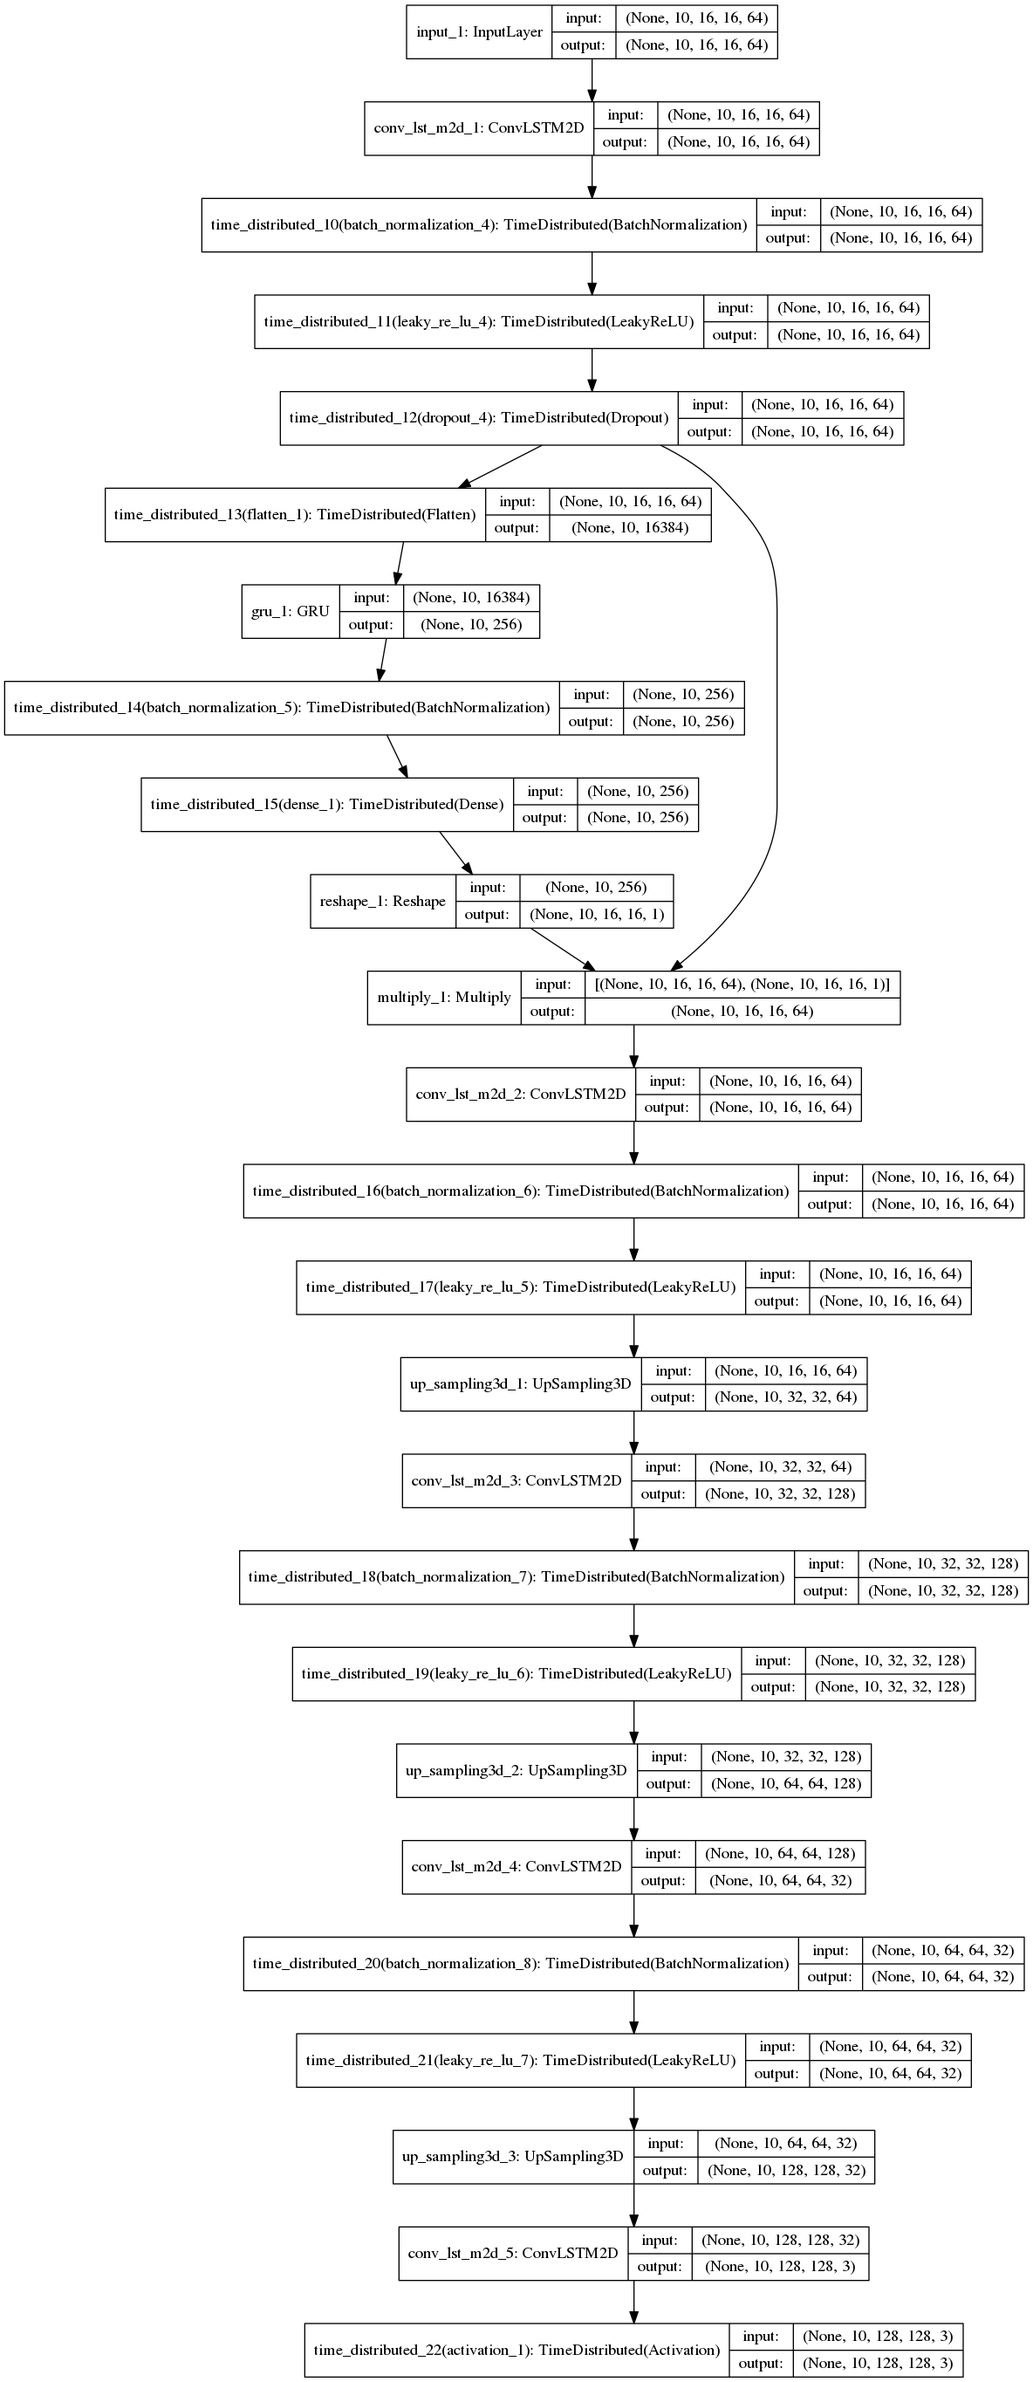
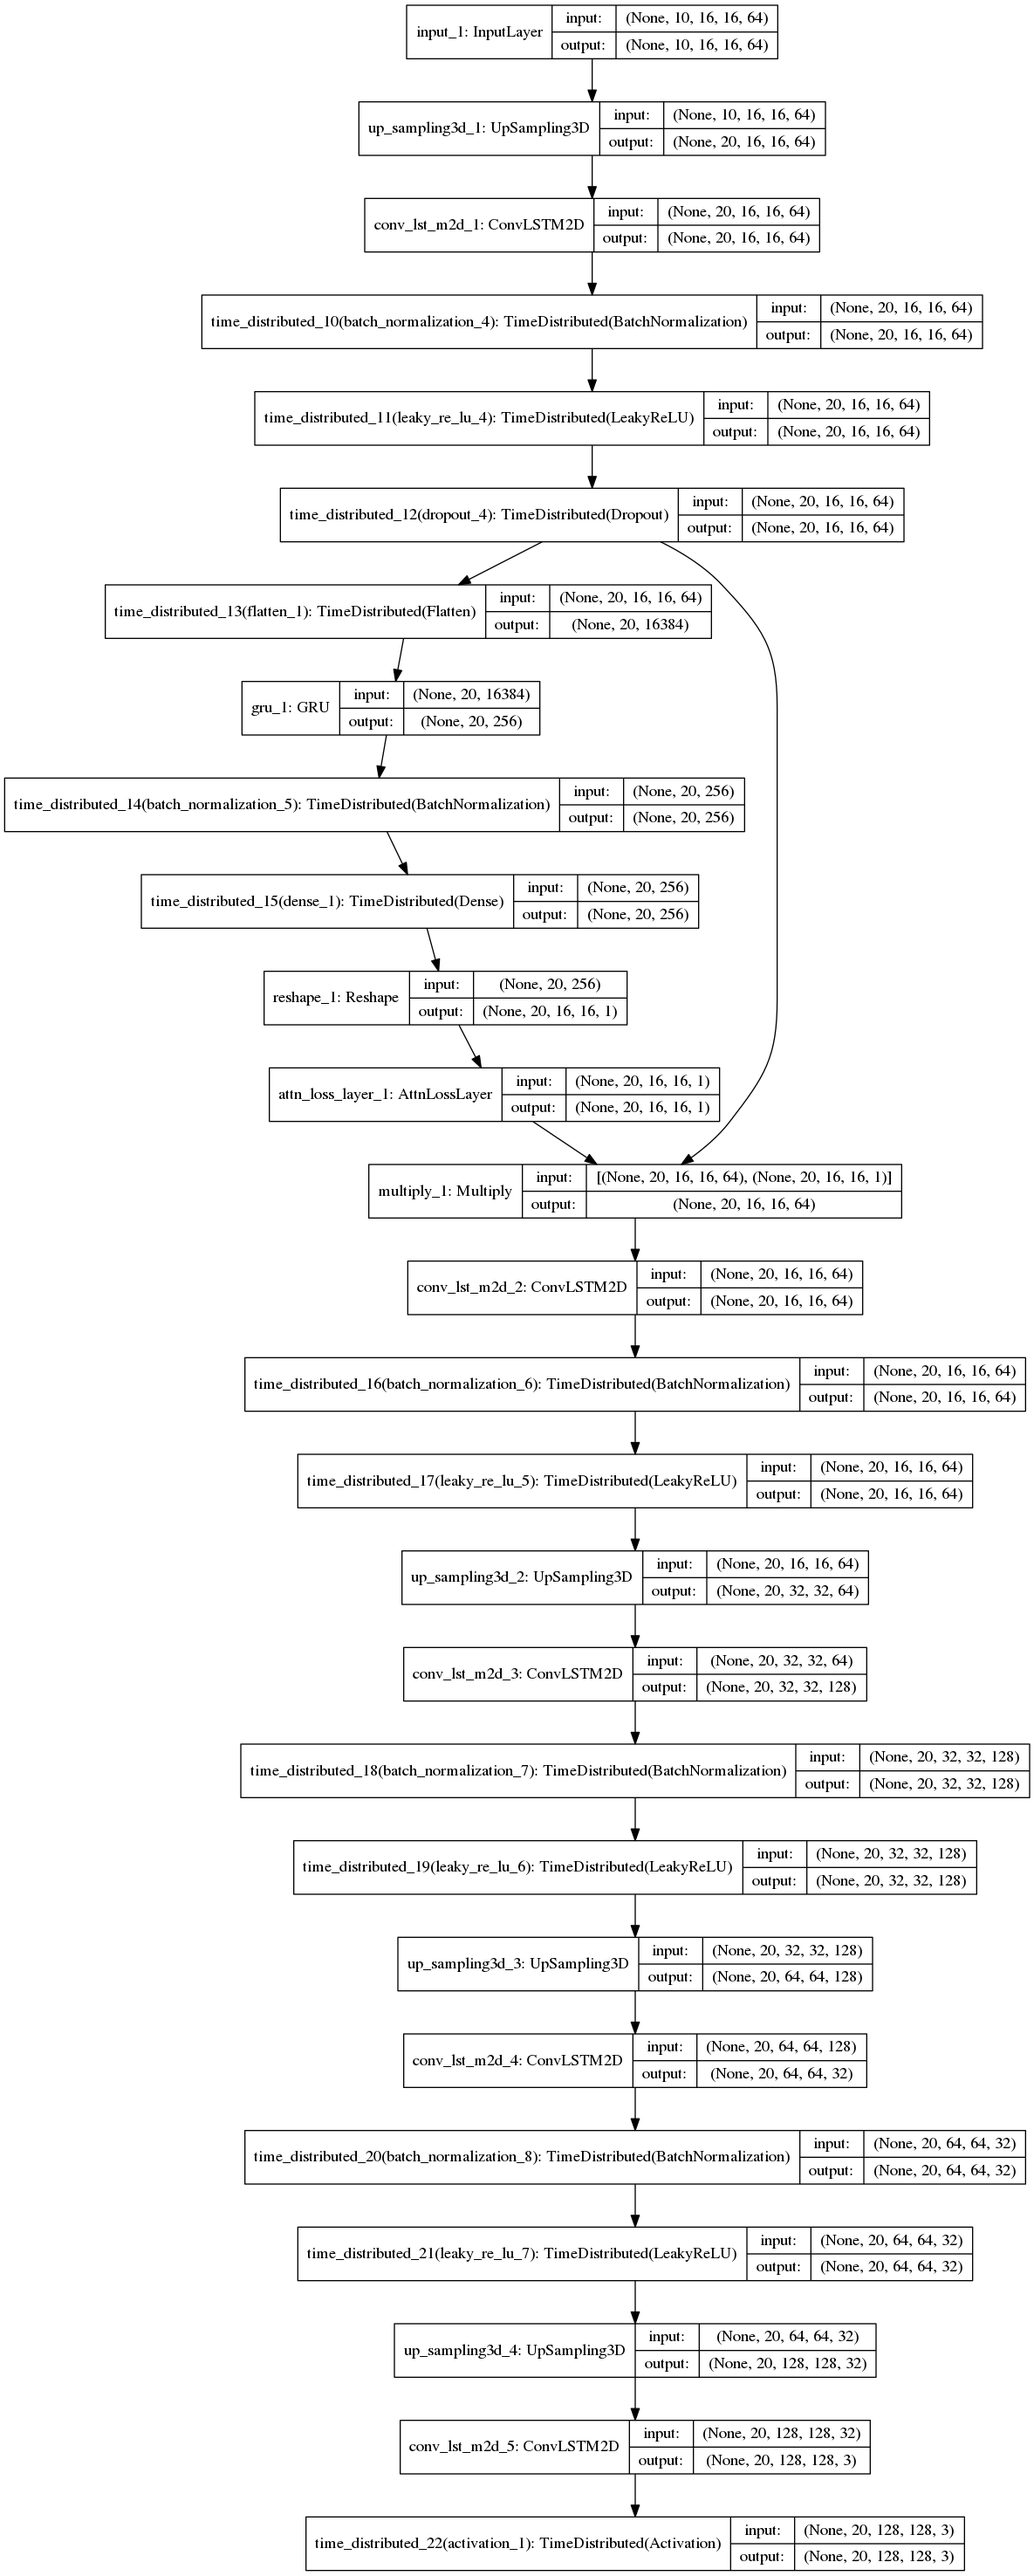
256 transformation and 20 frames

Changed region(s): [[0.0, 0.0, 1.0, 1.0]]

diff --git a/code/autoencoder_model/scripts/adversarial_classifier.py b/code/autoencoder_model/scripts/adversarial_classifier.py
@@ -62,7 +62,7 @@ def encoder_model():
                      strides=(1, 4, 4),
                      kernel_size=(3, 11, 11),
                      padding='same',
-                     input_shape=(int(VIDEO_LENGTH/2), 128, 128, 3)))
+                     input_shape=(10, 128, 128, 3)))
     model.add(TimeDistributed(BatchNormalization()))
     model.add(TimeDistributed(LeakyReLU(alpha=0.2)))
     model.add(TimeDistributed(Dropout(0.5)))
@@ -91,13 +91,15 @@ def encoder_model():
 def decoder_model():
     inputs = Input(shape=(10, 16, 16, 64))
 
+    h0 = UpSampling3D(size=(2, 1, 1))(inputs)
+
     # 10x16x16
     convlstm_1 = ConvLSTM2D(filters=64,
                             kernel_size=(3, 3),
                             strides=(1, 1),
                             padding='same',
                             return_sequences=True,
-                            recurrent_dropout=0.5)(inputs)
+                            recurrent_dropout=0.5)(h0)
     x = TimeDistributed(BatchNormalization())(convlstm_1)
     x = TimeDistributed(LeakyReLU(alpha=0.2))(x)
     out_1 = TimeDistributed(Dropout(0.5))(x)
@@ -107,9 +109,10 @@ def decoder_model():
                    activation='tanh',
                    recurrent_dropout=0.5,
                    return_sequences=True)(flat_1)
-    x = TimeDistributed(BatchNormalization())(aclstm_1)
+    x = TimeDistributed(BatchNormalization())(
+        aclstm_1)
     dense_1 = TimeDistributed(Dense(units=16 * 16, activation='softmax'))(x)
-    a1_reshape = Reshape(target_shape=(10, 16, 16, 1))(dense_1)
+    a1_reshape = Reshape(target_shape=(VIDEO_LENGTH-10, 16, 16, 1))(dense_1)
     a1 = AttnLossLayer()(a1_reshape)
     dot_1 = multiply([out_1, a1])
 
@@ -135,7 +138,7 @@ def decoder_model():
     out_3 = UpSampling3D(size=(1, 2, 2))(h_3)
 
     # 10x64x64
-    convlstm_4 = ConvLSTM2D(filters=32,
+    convlstm_4 = ConvLSTM2D(filters=16,
                             kernel_size=(3, 3),
                             strides=(1, 1),
                             padding='same',
@@ -473,16 +476,17 @@ def train(BATCH_SIZE, ENC_WEIGHTS, DEC_WEIGHTS, CLA_WEIGHTS):
         # Shuffle images to aid generalization
         videos_list = np.random.permutation(videos_list)
 
-    # Load labesl into categorical 1-hot vectors
-    actions = ['moving slow', 'slowing down', 'standing', 'speeding up', 'moving fast', 'fake']
-    print ("Loading annotations...")
-    action_classes = hkl.load(os.path.join(DATA_DIR, 'annotations_train_128.hkl'))
-    action_nums = []
-    for i in range(len(action_classes)):
-        action_dict = dict(ele.split(':') for ele in action_classes[i].split(', ')[2:])
-        action_nums.append(actions.index(str(action_dict['Driver'])))
-    # action_nums = action_nums[::2]
-    action_cats = np.asarray(to_categorical(action_nums, len(actions)))
+    if CLASSIFIER:
+        # Load labesl into categorical 1-hot vectors
+        actions = ['moving slow', 'slowing down', 'standing', 'speeding up', 'moving fast', 'fake']
+        print ("Loading annotations...")
+        action_classes = hkl.load(os.path.join(DATA_DIR, 'annotations_train_128.hkl'))
+        action_nums = []
+        for i in range(len(action_classes)):
+            action_dict = dict(ele.split(':') for ele in action_classes[i].split(', ')[2:])
+            action_nums.append(actions.index(str(action_dict['Driver'])))
+        # action_nums = action_nums[::2]
+        action_cats = np.asarray(to_categorical(action_nums, len(actions)))
 
     # Setup validation
     val_frames_source = hkl.load(os.path.join(VAL_DATA_DIR, 'sources_val_128.hkl'))
@@ -518,14 +522,15 @@ def train(BATCH_SIZE, ENC_WEIGHTS, DEC_WEIGHTS, CLA_WEIGHTS):
     val_videos_list = np.asarray(val_videos_list, dtype=np.int32)
     n_val_videos = val_videos_list.shape[0]
 
-    # Load val labesl into categorical 1-hot vectors
-    val_action_classes = hkl.load(os.path.join(VAL_DATA_DIR, 'annotations_val_128.hkl'))
-    val_action_nums = []
-    for i in range(len(val_action_classes)):
-        val_action_dict = dict(ele.split(':') for ele in val_action_classes[i].split(', ')[2:])
-        val_action_nums.append(actions.index(str(val_action_dict['Driver'])))
-    # val_action_nums = val_action_nums[::2]
-    val_action_cats = to_categorical(val_action_nums, len(actions))
+    if CLASSIFIER:
+        # Load val labesl into categorical 1-hot vectors
+        val_action_classes = hkl.load(os.path.join(VAL_DATA_DIR, 'annotations_val_128.hkl'))
+        val_action_nums = []
+        for i in range(len(val_action_classes)):
+            val_action_dict = dict(ele.split(':') for ele in val_action_classes[i].split(', ')[2:])
+            val_action_nums.append(actions.index(str(val_action_dict['Driver'])))
+        # val_action_nums = val_action_nums[::2]
+        val_action_cats = to_categorical(val_action_nums, len(actions))
 
     # Build the Spatio-temporal Autoencoder
     print ("Creating models...")
@@ -540,23 +545,26 @@ def train(BATCH_SIZE, ENC_WEIGHTS, DEC_WEIGHTS, CLA_WEIGHTS):
 
     autoencoder = autoencoder_model(encoder, decoder)
 
-    # classifier = classifier_model()
-    classifier = conv_classifier_model()
-    action_predictor = action_model(encoder, decoder, classifier)
-    action_predictor.compile(loss=['mse', 'categorical_crossentropy'],
-                             loss_weights=LOSS_WEIGHTS,
-                             optimizer=OPTIM_G,
-                             metrics=['accuracy'])
-    # action_predictor.compile(loss='categorical_crossentropy',
-    #                          optimizer=OPTIM_G,
-    #                          metrics=['accuracy'])
+    if CLASSIFIER:
+        # classifier = classifier_model()
+        classifier = conv_classifier_model()
+        action_predictor = action_model(encoder, decoder, classifier)
+        action_predictor.compile(loss=['mse', 'categorical_crossentropy'],
+                                 loss_weights=LOSS_WEIGHTS,
+                                 optimizer=OPTIM_G,
+                                 metrics=['accuracy'])
+        # action_predictor.compile(loss='categorical_crossentropy',
+        #                          optimizer=OPTIM_G,
+        #                          metrics=['accuracy'])
 
-    set_trainability(classifier, True)
-    classifier.compile(loss='categorical_crossentropy', metrics=['accuracy'], optimizer=OPTIM_D)
-    run_utilities(encoder, decoder, autoencoder, classifier, ENC_WEIGHTS, DEC_WEIGHTS, CLA_WEIGHTS)
+        set_trainability(classifier, True)
+        classifier.compile(loss='categorical_crossentropy', metrics=['accuracy'], optimizer=OPTIM_D)
+        run_utilities(encoder, decoder, autoencoder, classifier, ENC_WEIGHTS, DEC_WEIGHTS, CLA_WEIGHTS)
+        print (action_predictor.summary())
+
+    run_utilities(encoder, decoder, autoencoder, "None", ENC_WEIGHTS, DEC_WEIGHTS, "None")
 
     autoencoder.compile(loss="mean_squared_error", optimizer=OPTIM_A)
-    print (action_predictor.summary())
 
     NB_ITERATIONS = int(n_videos/BATCH_SIZE)
     # NB_ITERATIONS = 1
@@ -584,8 +592,8 @@ def train(BATCH_SIZE, ENC_WEIGHTS, DEC_WEIGHTS, CLA_WEIGHTS):
         for index in range(NB_ITERATIONS):
             # Train Autoencoder
             X, y = load_X_y(videos_list, index, frames, [])
-            X_train = X[:, 0 : int(VIDEO_LENGTH/2)]
-            y_train = X[:, int(VIDEO_LENGTH/2) :]
+            X_train = X[:, 0 : 10]
+            y_train = X[:, 10 :]
             loss.append(autoencoder.train_on_batch(X_train, y_train))
 
             arrow = int(index / (NB_ITERATIONS / 40))
@@ -609,8 +617,8 @@ def train(BATCH_SIZE, ENC_WEIGHTS, DEC_WEIGHTS, CLA_WEIGHTS):
         # Run over validation data
         for index in range(NB_VAL_ITERATIONS):
             X, y = load_X_y(val_videos_list, index, val_frames, [])
-            X_train = X[:, 0 : int(VIDEO_LENGTH/2)]
-            y_train = X[:, int(VIDEO_LENGTH/2) :]
+            X_train = X[:, 0 : 10]
+            y_train = X[:, 10 :]
             val_loss.append(autoencoder.test_on_batch(X_train, y_train))
 
             arrow = int(index / (NB_VAL_ITERATIONS / 40))

diff --git a/code/autoencoder_model/scripts/nmt_autoencoder.py b/code/autoencoder_model/scripts/nmt_autoencoder.py
@@ -38,8 +38,9 @@ from keras.callbacks import LearningRateScheduler
 from keras.layers.advanced_activations import LeakyReLU
 from keras.layers import Input
 from keras.models import Model
+from custom_layers import AttnLossLayer
 from experience_memory import ExperienceMemory
-from config_refiner import *
+from config_nmta import *
 from sys import stdout
 
 import tb_callback
@@ -58,7 +59,7 @@ def encoder_model():
                      strides=(1, 4, 4),
                      kernel_size=(3, 11, 11),
                      padding='same',
-                     input_shape=(int(VIDEO_LENGTH/2), 128, 128, 3)))
+                     input_shape=(10, 128, 128, 3)))
     model.add(TimeDistributed(BatchNormalization()))
     model.add(TimeDistributed(LeakyReLU(alpha=0.2)))
     model.add(TimeDistributed(Dropout(0.5)))
@@ -87,23 +88,37 @@ def encoder_model():
 def decoder_model():
     inputs = Input(shape=(10, 16, 16, 64))
 
+    h0 = UpSampling3D(size=(2, 1, 1))(inputs)
+
     # 10x16x16
     convlstm_1 = ConvLSTM2D(filters=64,
                             kernel_size=(3, 3),
                             strides=(1, 1),
                             padding='same',
                             return_sequences=True,
-                            recurrent_dropout=0.5)(inputs)
+                            recurrent_dropout=0.5)(h0)
     x = TimeDistributed(BatchNormalization())(convlstm_1)
     x = TimeDistributed(LeakyReLU(alpha=0.2))(x)
     out_1 = TimeDistributed(Dropout(0.5))(x)
+
+    flat_1 = TimeDistributed(Flatten())(out_1)
+    aclstm_1 = GRU(units=16 * 16,
+                   activation='tanh',
+                   recurrent_dropout=0.5,
+                   return_sequences=True)(flat_1)
+    x = TimeDistributed(BatchNormalization())(
+        aclstm_1)
+    dense_1 = TimeDistributed(Dense(units=16 * 16, activation='softmax'))(x)
+    a1_reshape = Reshape(target_shape=(VIDEO_LENGTH-10, 16, 16, 1))(dense_1)
+    a1 = AttnLossLayer()(a1_reshape)
+    dot_1 = multiply([out_1, a1])
 
     convlstm_2 = ConvLSTM2D(filters=64,
                             kernel_size=(3, 3),
                             strides=(1, 1),
                             padding='same',
                             return_sequences=True,
-                            recurrent_dropout=0.5)(out_1)
+                            recurrent_dropout=0.5)(dot_1)
     x = TimeDistributed(BatchNormalization())(convlstm_2)
     h_2 = TimeDistributed(LeakyReLU(alpha=0.2))(x)
     out_2 = UpSampling3D(size=(1, 2, 2))(h_2)
@@ -346,6 +361,7 @@ def combine_images(X, y, generated_images):
         orig_image[i * shape[0]:(i + 1) * shape[0], j * shape[1]:(j + 1) * shape[1], :] = img
 
     # Ground truth
+    n_frames = y.shape[0] * y.shape[1]
     truth_frames = np.zeros((n_frames,) + y.shape[2:], dtype=y.dtype)
     frame_index = 0
     for i in range(y.shape[0]):
@@ -546,8 +562,8 @@ def train(BATCH_SIZE, ENC_WEIGHTS, DEC_WEIGHTS, GEN_WEIGHTS, DIS_WEIGHTS):
         for index in range(NB_ITERATIONS):
             # Train Autoencoder
             X = load_X(videos_list, index, DATA_DIR, (128, 128, 3))
-            X_train = X[:, 0 : int(VIDEO_LENGTH/2)]
-            y_train = X[:, int(VIDEO_LENGTH/2) :]
+            X_train = X[:, 0 : 10]
+            y_train = X[:, 10 :]
             loss.append(autoencoder.train_on_batch(X_train, y_train))
 
             arrow = int(index / (NB_ITERATIONS / 40))
@@ -571,8 +587,8 @@ def train(BATCH_SIZE, ENC_WEIGHTS, DEC_WEIGHTS, GEN_WEIGHTS, DIS_WEIGHTS):
         # Run over validation data
         for index in range(NB_VAL_ITERATIONS):
             X = load_X(val_videos_list, index, VAL_DATA_DIR, (128, 128, 3))
-            X_train = X[:, 0: int(VIDEO_LENGTH / 2)]
-            y_train = X[:, int(VIDEO_LENGTH / 2):]
+            X_train = X[:, 0: 10]
+            y_train = X[:, 10:]
             val_loss.append(autoencoder.test_on_batch(X_train, y_train))
 
             arrow = int(index / (NB_VAL_ITERATIONS / 40))

diff --git a/code/autoencoder_model/scripts/config_ac.py b/code/autoencoder_model/scripts/config_ac.py
@@ -16,6 +16,8 @@ if hostname == 'baymax':
     path_var = 'baymax/'
 elif hostname == 'walle':
     path_var = 'walle/'
+elif hostname == 'bender':
+    path_var = 'bender/'
 else:
     path_var = 'zhora/'
 
@@ -67,13 +69,13 @@ SAVE_MODEL = True
 PLOT_MODEL = True
 SAVE_GENERATED_IMAGES = True
 SHUFFLE = True
-VIDEO_LENGTH = 20
+VIDEO_LENGTH = 30
 IMG_SIZE = (128, 128, 3)
 VIS_ATTN = True
 ATTN_COEFF = 0
 # KL coeff damages learning
 KL_COEFF = 0
-CLASSIFIER = True
+CLASSIFIER = False
 BUF_SIZE = 10
 LOSS_WEIGHTS = [1, 1]
 A_TRAIN_RATIO = 1
@@ -82,10 +84,11 @@ C_TRAIN_RATIO = 1
 # -------------------------------------------------
 # Network configuration:
 print ("Loading network/training configuration...")
+print ("Config file: " + str(__name__))
 
 BATCH_SIZE = 10
-NB_EPOCHS_AUTOENCODER = 10
-NB_EPOCHS_CLASS = 100
+NB_EPOCHS_AUTOENCODER = 30
+NB_EPOCHS_CLASS = 0
 
 OPTIM_A = Adam(lr=0.0001, beta_1=0.5)
 OPTIM_G = Adam(lr=0.0001, beta_1=0.5)

diff --git a/code/autoencoder_model/scripts/config_nmta.py b/code/autoencoder_model/scripts/config_nmta.py
@@ -72,20 +72,22 @@ SAVE_MODEL = True
 PLOT_MODEL = True
 SAVE_GENERATED_IMAGES = True
 SHUFFLE = True
-VIDEO_LENGTH = 20
+VIDEO_LENGTH = 30
 IMG_SIZE = (128, 128, 3)
-ADVERSARIAL = True
+ADVERSARIAL = False
 BUF_SIZE = 10
 LOSS_WEIGHTS = [1, 1]
+ATTN_COEFF = 0
+KL_COEFF = 0
 
 # -------------------------------------------------
 # Network configuration:
 print ("Loading network/training configuration.")
 print ("Config file: " + str(__name__))
 
-BATCH_SIZE = 10
-NB_EPOCHS_AUTOENCODER = 0
-NB_EPOCHS_GAN = 100
+BATCH_SIZE = 9
+NB_EPOCHS_AUTOENCODER = 30
+NB_EPOCHS_GAN = 0
 
 OPTIM_A = Adam(lr=0.0001, beta_1=0.5)
 OPTIM_G = Adam(lr=0.00001, beta_1=0.5)

diff --git a/code/autoencoder_model/scripts/plot_heatmap.py b/code/autoencoder_model/scripts/plot_heatmap.py
@@ -11,14 +11,14 @@ import matplotlib.pyplot as plt
 import matplotlib.cm as cm
 import cv2
 import ast
-from config_aa import *
+from config_ac import *
 
 def plot_heatmap(attn_layer, epoch, vid_num):
     print (attn_layer)
     for i in attn_layer:
         gen = i
         gen_name = 'gen' + str(gen)
-        data = np.load(os.path.join(TEST_RESULTS_DIR, 'attention_weights_cla_' + gen_name + '_' + str(epoch) + '.npy'))
+        data = np.load('./../zhora/history/attention_weights_' + gen_name + '_' + str(epoch) + '.npy')
         data = data[vid_num]
         for i in range(10):
             for j in range(data.shape[-1]):

diff --git a/code/autoencoder_model/scripts/custom_layers.py b/code/autoencoder_model/scripts/custom_layers.py
@@ -5,7 +5,7 @@ from __future__ import print_function
 from keras.layers import Layer
 from keras import backend as K
 K.set_image_dim_ordering('tf')
-from config_ac import KL_COEFF, ATTN_COEFF
+from config_nmta import KL_COEFF, ATTN_COEFF
 
 # Custom loss layer
 class AttnLossLayer(Layer):
